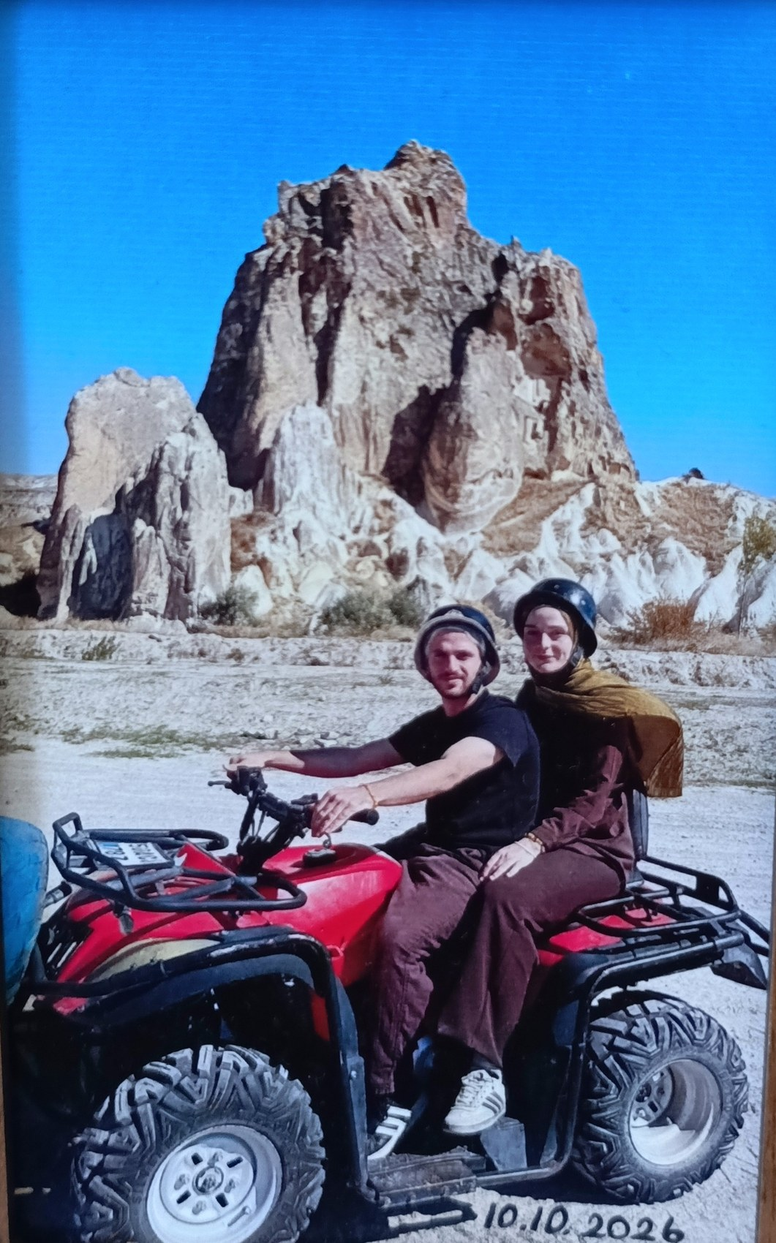
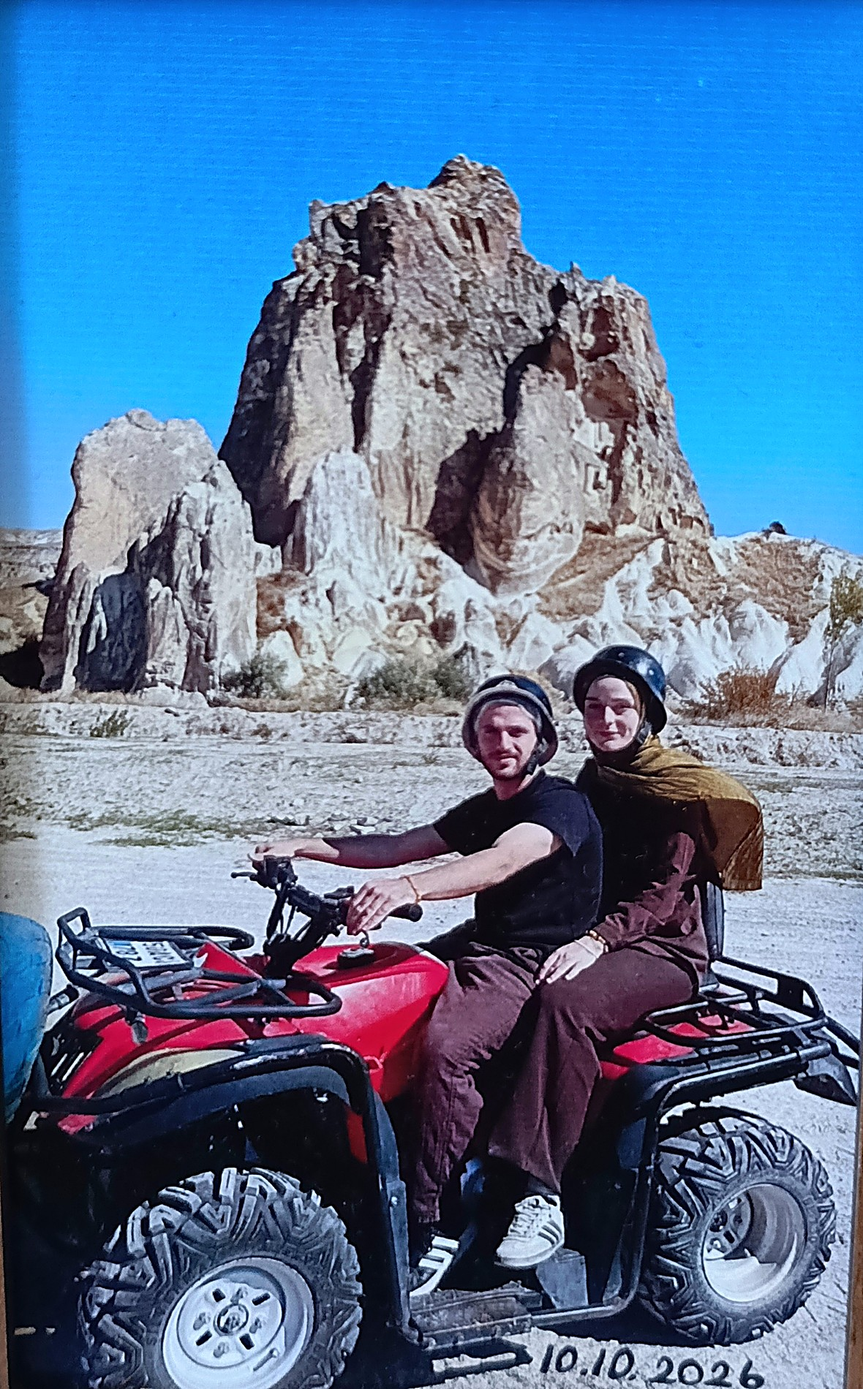
Kapadokya fotografi: keskinlestirme, daha buyuk cerceve, daha erken netlesme (v97)

diff --git a/app.js b/app.js
@@ -516,8 +516,8 @@ const MASA = { x: 8.3, z: -21.9, wx: 0, wz: 0, fy: 0 };
   const top = new THREE.Mesh(new THREE.SphereGeometry(0.12, 10, 8), M(0x4a90c8, 40)); top.scale.set(1, 0.85, 1); top.position.set(-1.0, 0.1, 0.28); g.add(top);
 
   // Kapadokya çerçevesi: masanın güney ucunda, odaya doğru hafif dönük
-  const FW = 0.3, FH = 0.4, ORAN = 1061 / 1700, WH = FH * 0.715, WW = WH * ORAN;
-  const cg = new THREE.Group(); cg.position.set(-0.46, 0.75 + FH / 2 * Math.cos(0.12), -0.1); cg.rotation.set(-0.12, -0.38, 0); g.add(cg);
+  const FW = 0.3, FH = 0.4, ORAN = 1180 / 1900, WH = FH * 0.715, WW = WH * ORAN;
+  const cg = new THREE.Group(); cg.scale.setScalar(1.45); cg.position.set(-0.36, 0.75 + FH * 1.45 / 2 * Math.cos(0.12), -0.1); cg.rotation.set(-0.12, -0.38, 0); g.add(cg);
   const fc = document.createElement('canvas'); fc.width = 600; fc.height = 800; const fx = fc.getContext('2d'), fd = new THREE.CanvasTexture(fc); fd.anisotropy = 4;
   const KR = '#efdca8';
   function ciz(fn, cx, cy, sc, ters, dn) { fx.save(); fx.translate(cx, cy); fx.scale(ters ? -sc : sc, sc); if (dn) fx.rotate(dn); fx.fillStyle = KR; fx.strokeStyle = KR; fx.lineCap = 'round'; fn(); fx.restore(); }
@@ -544,11 +544,11 @@ const MASA = { x: 8.3, z: -21.9, wx: 0, wz: 0, fy: 0 };
   const net = new THREE.Mesh(new THREE.PlaneGeometry(WW, WH), new THREE.MeshBasicMaterial({ color: 0x555555 })); net.position.set(0, FH * (0.5 - (0.16 + 0.715 / 2) ) * 1, 0.0085); cg.add(net);
   // yer tutucu: foto gelene kadar gökyüzü mavisi
   const pk = document.createElement('canvas'); pk.width = 8; pk.height = 12; const pkx = pk.getContext('2d'); pkx.fillStyle = '#2a7bd6'; pkx.fillRect(0, 0, 8, 12); net.material.map = new THREE.CanvasTexture(pk);
-  const kayit = { net, bul: { material: { color: new THREE.Color(), opacity: 1 } }, px: 0, pz: 0, m: [4.2, 1.5] };
+  const kayit = { net, bul: { material: { color: new THREE.Color(), opacity: 1 } }, px: 0, pz: 0, m: [6, 3] };
   cocukFoto.push(kayit);
   g.updateMatrixWorld(true); const wp = new THREE.Vector3(); cg.getWorldPosition(wp); kayit.px = wp.x; kayit.pz = wp.z; MASA.wx = wp.x; MASA.wz = wp.z; MASA.fy = wp.y;
   new THREE.TextureLoader().load('foto/kapadokya.jpg', tex => {
-    tex.anisotropy = 4; net.material.map = tex; net.material.needsUpdate = true;
+    tex.anisotropy = 8; net.material.map = tex; net.material.needsUpdate = true;
     const bc = document.createElement('canvas'); bc.width = 14; bc.height = Math.round(14 / ORAN); bc.getContext('2d').drawImage(tex.image, 0, 0, bc.width, bc.height);
     const bt = new THREE.CanvasTexture(bc); bt.magFilter = THREE.LinearFilter; bt.minFilter = THREE.LinearFilter;
     const bul = new THREE.Mesh(new THREE.PlaneGeometry(WW, WH), new THREE.MeshBasicMaterial({ map: bt, color: 0x333333, transparent: true })); bul.position.copy(net.position); bul.position.z += 0.0012; cg.add(bul); kayit.bul = bul;
@@ -560,7 +560,7 @@ const MASA = { x: 8.3, z: -21.9, wx: 0, wz: 0, fy: 0 };
 const fotoBtn = document.getElementById('fotoBtn'), fotoBak = document.getElementById('fotoBak');
 function masaGuncelle() {
   const uz = Math.hypot(kon.x - MASA.wx, kon.z - MASA.wz);
-  fotoBtn.classList.toggle('acik', uz < 2.1 && kon.x > ODA_X + 1 && kon.x < 12 && kon.z < ODA2_Z1 && !fotoBak.classList.contains('acik'));
+  fotoBtn.classList.toggle("acik", uz < 2.6 && kon.x > ODA_X + 1 && kon.x < 12 && kon.z < ODA2_Z1 && !fotoBak.classList.contains('acik'));
 }
 fotoBtn.addEventListener('click', () => { fotoBak.classList.add('acik'); fotoBtn.classList.remove('acik'); });
 fotoBak.addEventListener('click', () => fotoBak.classList.remove('acik'));

diff --git a/index.html b/index.html
@@ -42,6 +42,6 @@
 <div id="joy"><div id="joyTop"></div></div>
 
 <script src="https://cdnjs.cloudflare.com/ajax/libs/three.js/r128/three.min.js"></script>
-<script src="app.js?v=96"></script>
+<script src="app.js?v=97"></script>
 </body>
 </html>
